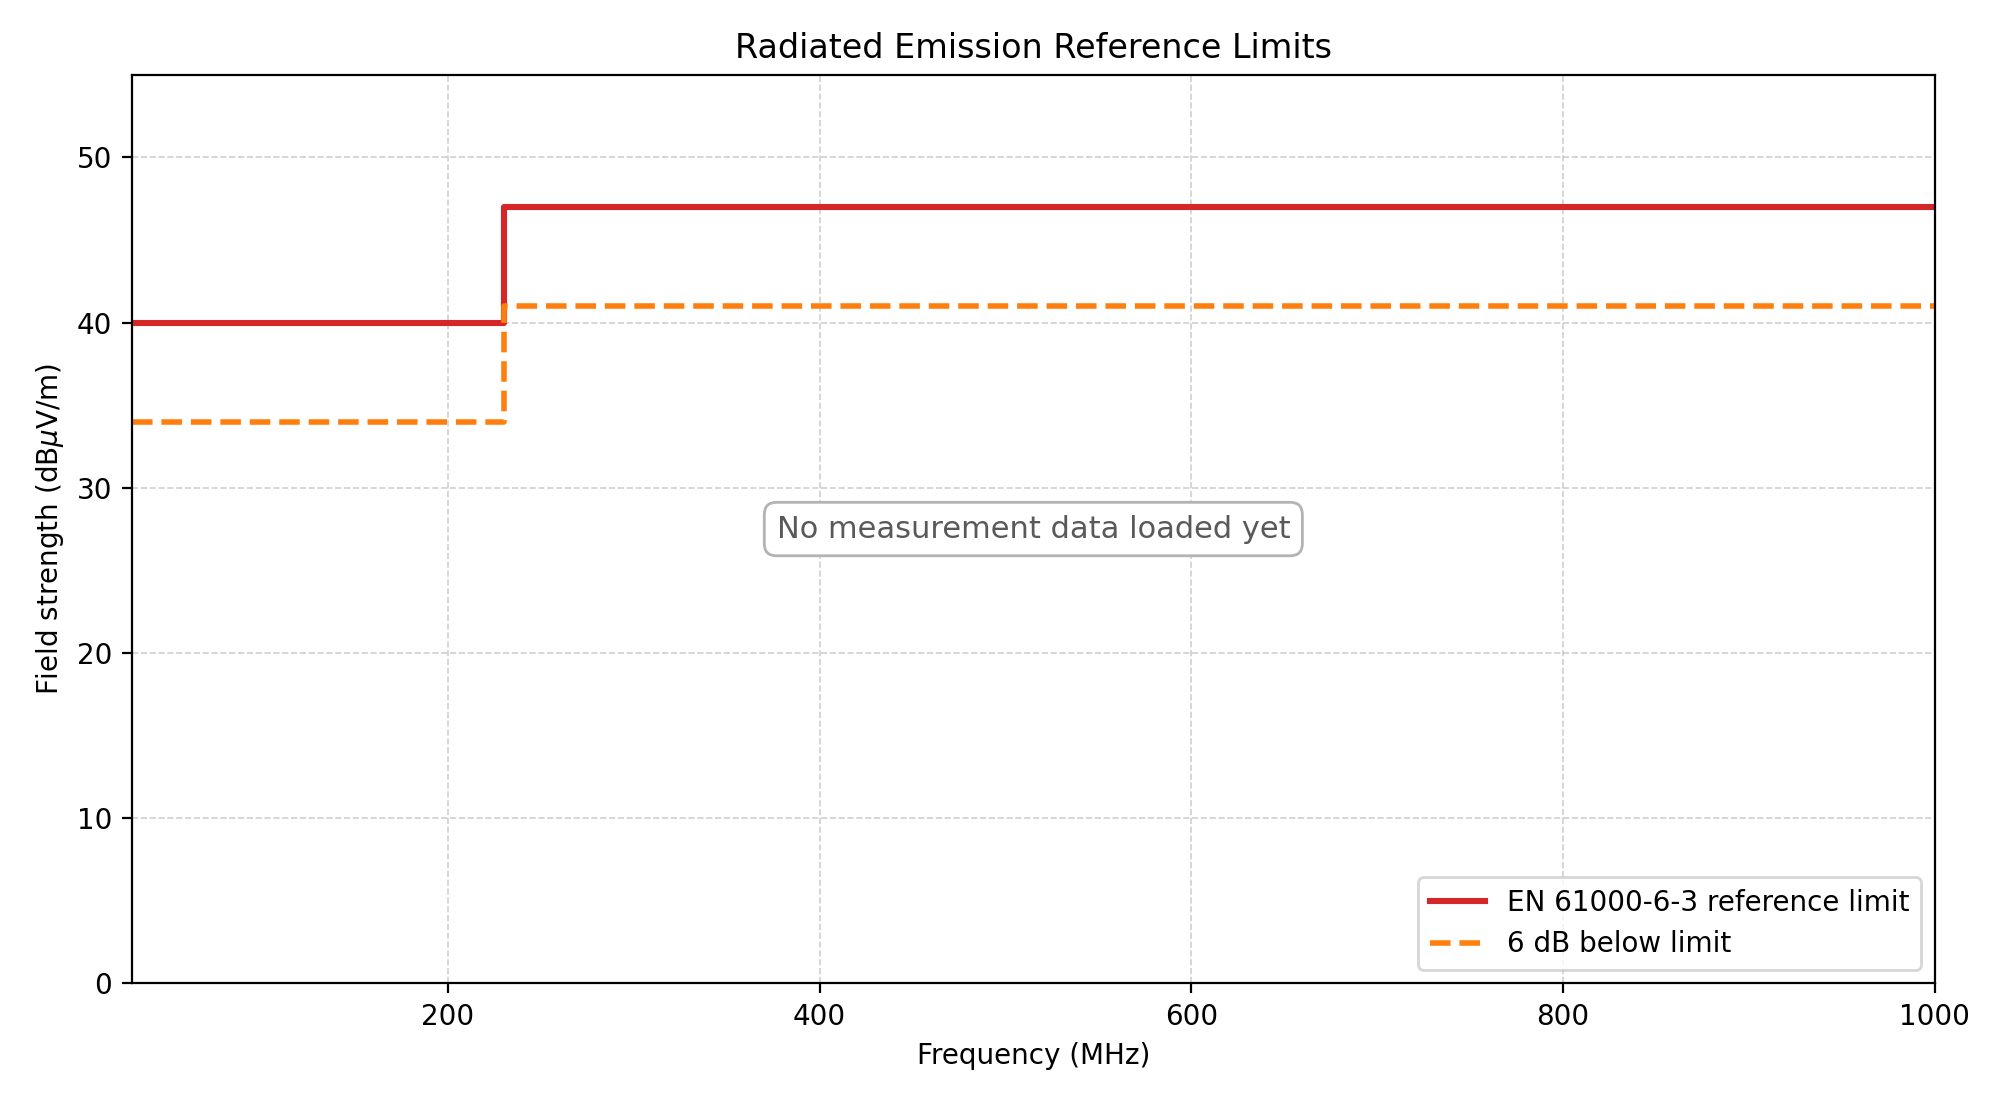
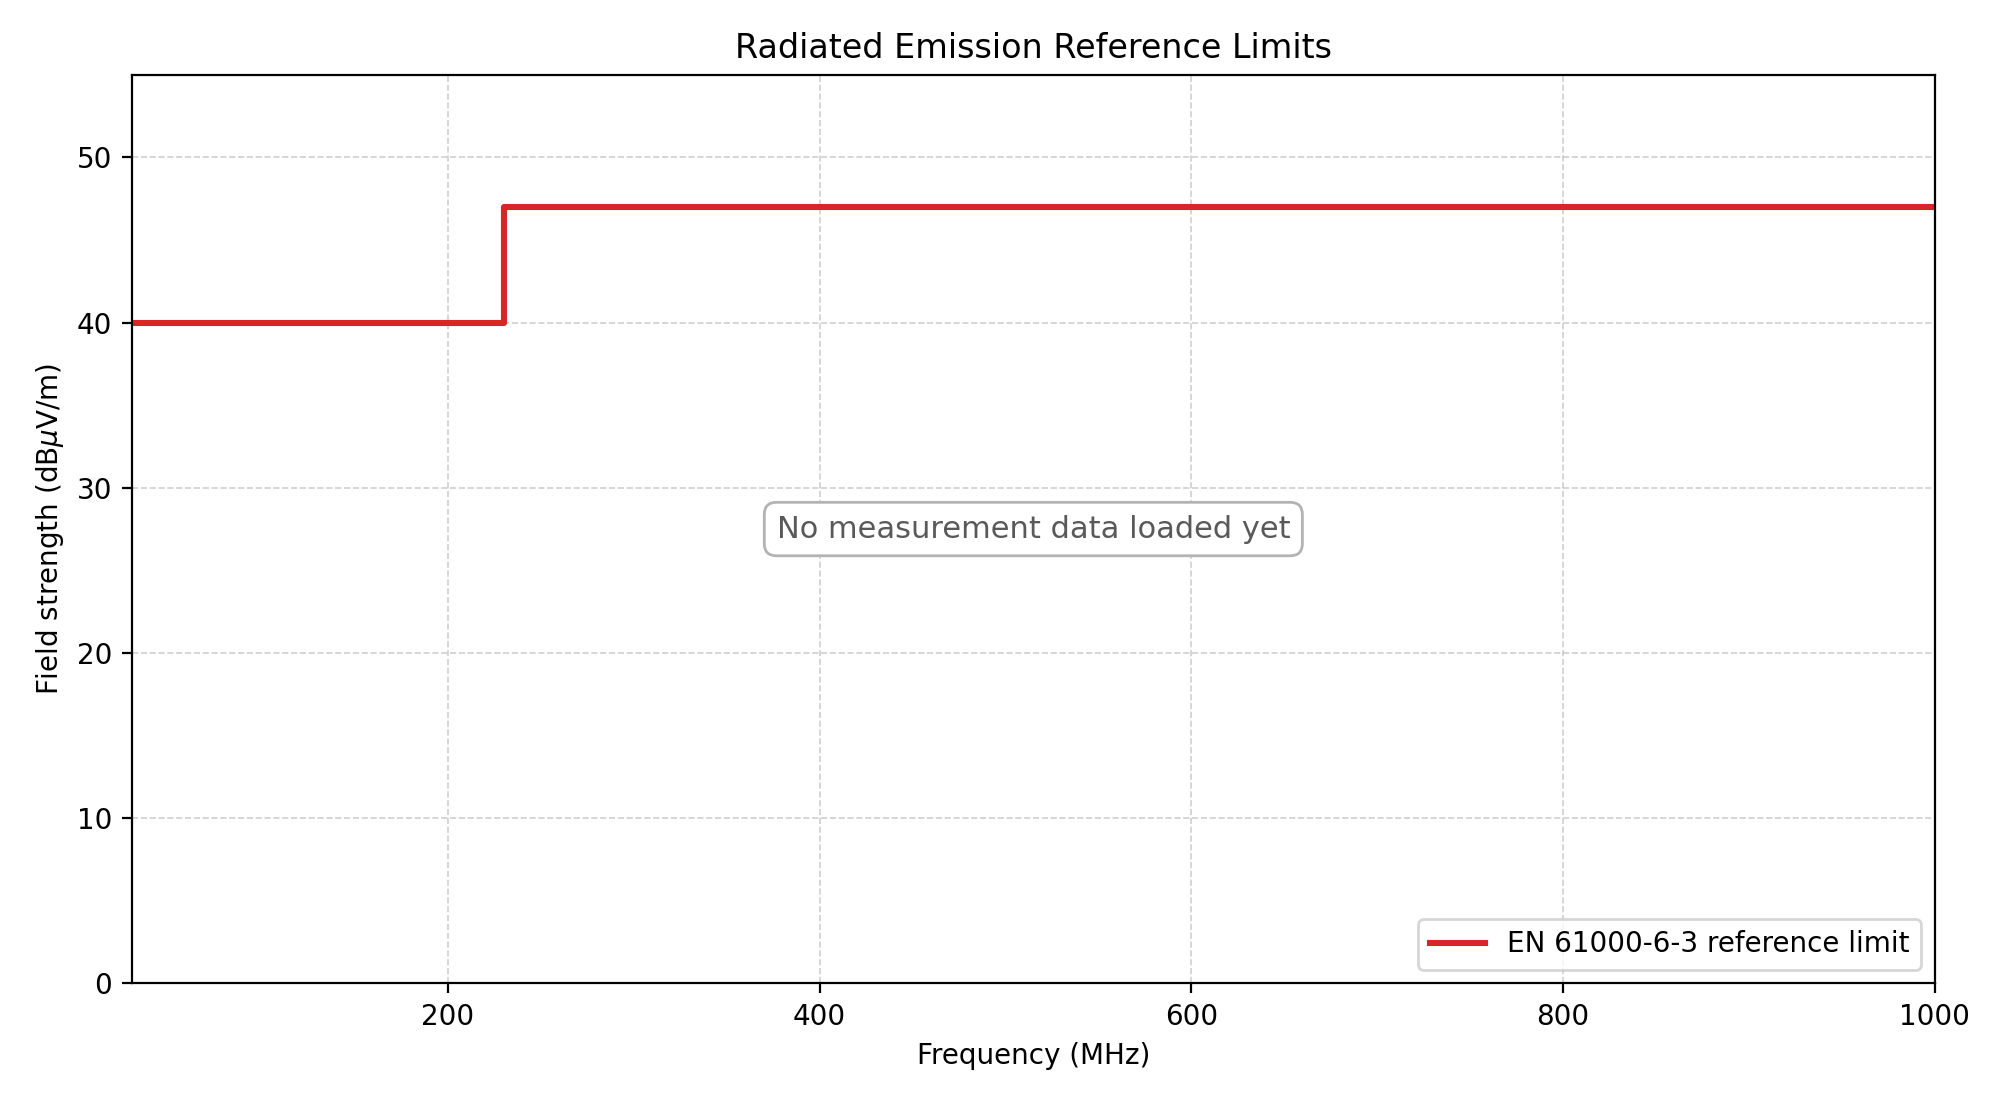
Refine measurement and results sections

Changed region(s): [[0.713, 0.8036, 0.961, 0.8655], [0.062, 0.3709, 0.248, 0.4018], [0.248, 0.2782, 0.279, 0.3091]]

diff --git a/05-method-and-measurement-plan.tex b/05-method-and-measurement-plan.tex
@@ -1,57 +1,23 @@
-\section{Method and measurement plan}
+\section{Applied Measurement Limits and Method}
 
-EN~61000-6-3 points to EN~55016-2-3 for the radiated emission test method.
-However, EN~55016-2-3 is also licence based and can therefore not be used directly in
-this test report. Since the available setup is a pre-compliance test chamber and not a full
-or semi anechoic chamber, the measurement will deviate too much from the official method
-for a detailed investigation of EN~55016-2-3 to be relevant in this project.
+Radiated emission from the AGV was measured in an EMC chamber and evaluated against
+the practical EN~61000-6-3 reference limits identified in Section~4. The chamber
+measurement followed an established radiated-emission procedure of the type referenced
+by EN~61000-6-3, namely EN~55016-2-3 / CISPR~16-2-3.
 
-The available setup is not a full or semi anechoic chamber, and the measurement distance
-is expected to be shorter than \(3\,m\). The results are therefore not treated as formal
-EN~61000-6-3 results. Instead, the measurements are used as a pre-compliance scan to
-identify possible emission problems. To add margin for the limited setup, all measured
-results should be at least \(6\,dB\) below the practical reference limit. Since the limits are
-given in \(dB\mu V/m\), this corresponds to approximately a factor of two in field strength.
+Radiated emission was evaluated for the complete AGV as an enclosure-port
+measurement. This means that the mainboard, H-bridge PCBs, motor wiring, switching
+regulators, controllers, and external cables were treated as one radiating system.
 
-The chamber measurements use a peak detector rather than a quasi-peak detector. Peak
-results are therefore not directly equivalent to the quasi-peak limits used in the practical
-reference, but they are still useful for pre-compliance because they conservatively show
-where strong emissions occur.
+The result is still treated as pre-compliance rather than a formal declaration of
+conformity. Although the chamber measurement followed the main procedure elements
+associated with EN~55016-2-3 / CISPR~16-2-3, this report does not document all items
+normally required for a full compliance report, such as complete calibration data,
+chamber validation, correction factors, measurement uncertainty, and full laboratory
+documentation.
 
-Because a new measurement setup is not feasible, the borrowed chamber will be used
-with its preset settings. These settings are not necessarily identical to those in the formal
-standard method, and because the chamber is borrowed from Husqvarna, the exact setup
-cannot be disclosed in this report.
-
-The measurement system still covers the relevant radiated-emission frequency range. In
-this project, the practical comparison to the identified EN~61000-6-3 reference limits is
-made over \(30\,MHz\) to \(1\,GHz\).
-
-Because this is a pre-compliance investigation, the purpose is not to declare formal
-pass/fail, but to identify peaks that are close to the practical reference limit. In this
-report, particular attention is therefore given to peaks within \(6\,dB\) of the reference
-limit, or above it. If such peaks are found, the analysis from Section~2 will be used to
-assess which subsystem may be responsible for the emission. If the calculations do not
-clearly suggest the source, a spectral probe can also be used to scan locally over the
-components and look for the same frequency peak near a likely source.
-
-The main selected measurement is radiated emission from the complete AGV. This is
-treated as an enclosure-port measurement, meaning that the robot is evaluated as one
-radiating product including the mainboard, H-bridge PCBs, motor wiring, switching
-regulators, controllers, and external cables.
-
-The AGV is measured in operating modes that are expected to create the highest
-unintentional emissions. The most important mode is motor operation, because the
-self-designed H-bridge PCBs switch motor current and are connected to external motor
-wiring. The switching regulators and controllers are also active during this mode, so that
-the measured result represents the complete AGV electronics.
-
-Two operating modes are planned: standby and running. In standby mode, the AGV
-electronics are powered but the motors are not running. In running mode, the AGV drives
-forward using \texttt{set\_drive\_forward\_mm(x)}.
-
-This work requires access to the borrowed pre-compliance chamber and measurement time
-at Husqvarna AB. At the time of writing, that work had not yet been carried out, so
-Sections~6--9 are limited to the parts that depend on the measurement plan described
-here.
+The practical comparison in this report is made over \(30\,MHz\) to \(1\,GHz\). The
+purpose is not to declare formal pass, but to compare the AGV result against the
+practical reference levels identified in Section~4 and identify frequencies that deserve
+further investigation.
 

diff --git a/06-pre-compliance-measurements.tex b/06-pre-compliance-measurements.tex
@@ -1,11 +1,20 @@
-\section{Pre-compliance measurements and results}
+\section{Pre-compliance measurements}
 
-This section depends on the measurement work described in Section~6 and is therefore left
-for future work.
+The chamber measurement was carried out at Husqvarna AB in a semi-anechoic chamber at
+\(3\,m\) antenna distance, with the AGV placed on a turntable and raised so that the
+wheels could spin freely in the air. The receiving antenna was measured in both vertical
+and horizontal polarisation.
 
-\begin{figure}[H]
-\centering
-\includegraphics[width=\linewidth]{figures/radiated_emission_reference_limits.png}
-\caption{Planned radiated-emission plot format with the EN~61000-6-3 reference limit, the \(6\,dB\) below-limit screening line, and no measured data yet added.}
-\label{fig:radiated-reference-limit-plot}
-\end{figure}
+A preliminary scan was performed first. During this scan, the turntable was stepped in
+\(45^\circ\) increments. The preliminary scan was carried out for both antenna
+polarisations and at fixed antenna heights of \(1\,m\) and \(2\,m\). The frequencies and
+orientations giving the highest levels were then selected for final measurement.
+
+The final measurement used a quasi-peak detector. For the selected frequencies, the AGV
+was rotated through \(360^\circ\) to maximise the received level, and the antenna height
+was varied from \(1\,m\) to \(4\,m\). The final quasi-peak measurement used a dwell time
+of \(15\,s\).
+
+The AGV was measured in running mode only, since motor operation was expected to
+produce the highest unintentional emissions. During the measurement, the AGV was
+turned on and set to follow a random path to mimic running mode.

diff --git a/tools/plot_radiated_emission_limits.py b/tools/plot_radiated_emission_limits.py
@@ -8,8 +8,6 @@ import matplotlib.pyplot as plt
 
 LIMIT_BREAKS_MHZ = [30.0, 230.0, 1000.0]
 LIMIT_LEVELS_DBUV_M = [40.0, 47.0, 47.0]
-SCREENING_MARGIN_DB = 6.0
-SCREENING_LEVELS_DBUV_M = [level - SCREENING_MARGIN_DB for level in LIMIT_LEVELS_DBUV_M]
 
 CSV_PATH = Path("measurement_data.csv")
 OUTPUT_PATH = Path("figures/radiated_emission_reference_limits.png")
@@ -51,16 +49,6 @@ def make_plot(csv_path: Path = CSV_PATH, output_path: Path = OUTPUT_PATH) -> Non
         color="tab:red",
         linewidth=2.2,
         label="EN 61000-6-3 reference limit",
-    )
-
-    ax.step(
-        LIMIT_BREAKS_MHZ,
-        SCREENING_LEVELS_DBUV_M,
-        where="post",
-        color="tab:orange",
-        linewidth=2.0,
-        linestyle="--",
-        label="6 dB below limit",
     )
 
     if csv_path.exists():

diff --git a/07-results.tex b/07-results.tex
@@ -1,0 +1,11 @@
+\section{Pre-compliance results}
+
+The measured data are not yet processed and presented in this report. This section
+therefore shows only the intended result format for the radiated-emission comparison.
+
+\begin{figure}[H]
+\centering
+\includegraphics[width=\linewidth]{figures/radiated_emission_reference_limits.png}
+\caption{Planned radiated-emission plot format with the EN~61000-6-3 reference limit and no measured data yet added.}
+\label{fig:radiated-reference-limit-plot}
+\end{figure}

diff --git a/07-mitigation-actions.tex b/07-mitigation-actions.tex
@@ -1,4 +1,4 @@
 \section{Mitigation actions and evaluation}
 
-This section depends on the measurement work described in Section~6 and is therefore left
-for future work.
+This section depends on the measurement results described in Section~7 and is therefore
+left for future work.

diff --git a/08-discussion.tex b/08-discussion.tex
@@ -1,5 +1,5 @@
 \section{Discussion}
-This section depends on the measurement work described in Section~6 and is therefore left
-for future work.
+This section depends on the measurement results described in Section~7 and is therefore
+left for future work.
 
 

diff --git a/09-conclusions-and-future-work.tex b/09-conclusions-and-future-work.tex
@@ -1,3 +1,3 @@
 \section{Conclusions and future work}
-This section depends on the measurement work described in Section 6 and is therefore
+This section depends on the measurement results described in Section~7 and is therefore
 left for future work.

diff --git a/report.tex b/report.tex
@@ -28,6 +28,7 @@
 \input{04-applicable-standards}
 \input{05-method-and-measurement-plan}
 \input{06-pre-compliance-measurements}
+\input{07-results}
 \input{07-mitigation-actions}
 \input{08-discussion}
 \input{09-conclusions-and-future-work}

diff --git a/README.md b/README.md
@@ -221,47 +221,45 @@ Since EN 61000-6-3 is also licence-based, this test report does not claim formal
 
 Based on the secondary sources, it can be inferred that the practical EN 61000-6-3 radiated-emission reference limits at $3\,m$ are $40\,dB\mu V/m$ from $30\,MHz$ to $230\,MHz$, and $47\,dB\mu V/m$ from $230\,MHz$ to $1000\,MHz$, using a quasi-peak detector.
 
-## Method and measurement plan
+## Applied Measurement Limits and Method
 
-EN 61000-6-3 points to EN 55016-2-3 for the radiated emission test method. However, EN 55016-2-3 is also licence based and can therefore not be used directly in this test report. Since the available setup is a pre-compliance test chamber and not a full or semi anechoic chamber, the measurement will deviate too much from the official method for a detailed investigation of EN 55016-2-3 to be relevant in this project.
+Radiated emission from the AGV was measured in an EMC chamber and evaluated against the practical EN 61000-6-3 reference limits identified in Section 4. The chamber measurement followed an established radiated-emission procedure of the type referenced by EN 61000-6-3, namely EN 55016-2-3 / CISPR 16-2-3.
 
-The available setup is not a full or semi anechoic chamber, and the measurement distance is expected to be shorter than $3\,m$. The results are therefore not treated as formal EN 61000-6-3 results. Instead, the measurements are used as a pre-compliance scan to identify possible emission problems. To add margin for the limited setup, all measured results should be at least $6\,dB$ below the practical reference limit. Since the limits are given in $dB\mu V/m$, this corresponds to approximately a factor of two in field strength.
+Radiated emission was evaluated for the complete AGV as an enclosure-port measurement. This means that the mainboard, H-bridge PCBs, motor wiring, switching regulators, controllers, and external cables were treated as one radiating system.
 
-The chamber measurements use a peak detector rather than a quasi-peak detector. Peak results are therefore not directly equivalent to the quasi-peak limits used in the practical reference, but they are still useful for pre-compliance because they conservatively show where strong emissions occur.
+The result is still treated as pre-compliance rather than a formal declaration of conformity. Although the chamber measurement followed the main procedure elements associated with EN 55016-2-3 / CISPR 16-2-3, this report does not document all items normally required for a full compliance report, such as complete calibration data, chamber validation, correction factors, measurement uncertainty, and full laboratory documentation.
 
-Because a new measurement setup is not feasible, the borrowed chamber will be used with its preset settings. These settings are not necessarily identical to those in the formal standard method, and because the chamber is borrowed from Husqvarna, the exact setup cannot be disclosed in this report.
+The practical comparison in this report is made over $30\,MHz$ to $1\,GHz$. The purpose is not to declare formal pass, but to compare the AGV result against the practical reference levels identified in Section 4 and identify frequencies that deserve further investigation.
 
-The measurement system still covers the relevant radiated-emission frequency range. In this project, the practical comparison to the identified EN 61000-6-3 reference limits is made over $30\,MHz$ to $1\,GHz$.
+## Pre-compliance measurements
 
-Because this is a pre-compliance investigation, the purpose is not to declare formal pass/fail, but to identify peaks that are close to the practical reference limit. In this report, particular attention is therefore given to peaks within $6\,dB$ of the reference limit, or above it. If such peaks are found, the analysis from Section 2 will be used to assess which subsystem may be responsible for the emission. If the calculations do not clearly suggest the source, a spectral probe can also be used to scan locally over the components and look for the same frequency peak near a likely source.
+The chamber measurement was carried out at Husqvarna AB in a semi-anechoic chamber at $3\,m$ antenna distance, with the AGV placed on a turntable and raised so that the wheels could spin freely in the air. The receiving antenna was measured in both vertical and horizontal polarisation.
 
-The main selected measurement is radiated emission from the complete AGV. This is treated as an enclosure-port measurement, meaning that the robot is evaluated as one radiating product including the mainboard, H-bridge PCBs, motor wiring, switching regulators, controllers, and external cables.
+A preliminary scan was performed first. During this scan, the turntable was stepped in $45^\circ$ increments. The preliminary scan was carried out for both antenna polarisations and at fixed antenna heights of $1\,m$ and $2\,m$. The frequencies and orientations giving the highest levels were then selected for final measurement.
 
-The AGV is measured in operating modes that are expected to create the highest unintentional emissions. The most important mode is motor operation, because the self-designed H-bridge PCBs switch motor current and are connected to external motor wiring. The switching regulators and controllers are also active during this mode, so that the measured result represents the complete AGV electronics.
+The final measurement used a quasi-peak detector. For the selected frequencies, the AGV was rotated through $360^\circ$ to maximise the received level, and the antenna height was varied from $1\,m$ to $4\,m$. The final quasi-peak measurement used a dwell time of $15\,s$.
 
-Two operating modes are planned: standby and running. In standby mode, the AGV electronics are powered but the motors are not running. In running mode, the AGV drives forward using \texttt{set_drive_forward_mm(x)}.
+The AGV was measured in running mode only, since motor operation was expected to produce the highest unintentional emissions. During the measurement, the AGV was turned on and set to follow a random path to mimic running mode.
 
-This work requires access to the borrowed pre-compliance chamber and measurement time at Husqvarna AB. At the time of writing, that work had not yet been carried out, so Sections 6--9 are limited to the parts that depend on the measurement plan described here.
+## Pre-compliance results
 
-## Pre-compliance measurements and results
+The measured data are not yet processed and presented in this report. This section therefore shows only the intended result format for the radiated-emission comparison.
 
-This section depends on the measurement work described in Section 6 and is therefore left for future work.
+![Planned radiated-emission plot format with the EN 61000-6-3 reference limit and no measured data yet added.](figures/radiated_emission_reference_limits.png)
 
-![Planned radiated-emission plot format with the EN 61000-6-3 reference limit, the $6\,dB$ below-limit screening line, and no measured data yet added.](figures/radiated_emission_reference_limits.png)
-
-*Planned radiated-emission plot format with the EN 61000-6-3 reference limit, the $6\,dB$ below-limit screening line, and no measured data yet added.*
+*Planned radiated-emission plot format with the EN 61000-6-3 reference limit and no measured data yet added.*
 
 ## Mitigation actions and evaluation
 
-This section depends on the measurement work described in Section 6 and is therefore left for future work.
+This section depends on the measurement results described in Section 7 and is therefore left for future work.
 
 ## Discussion
 
-This section depends on the measurement work described in Section 6 and is therefore left for future work.
+This section depends on the measurement results described in Section 7 and is therefore left for future work.
 
 ## Conclusions and future work
 
-This section depends on the measurement work described in Section 6 and is therefore left for future work.
+This section depends on the measurement results described in Section 7 and is therefore left for future work.
 
 ## References
 
